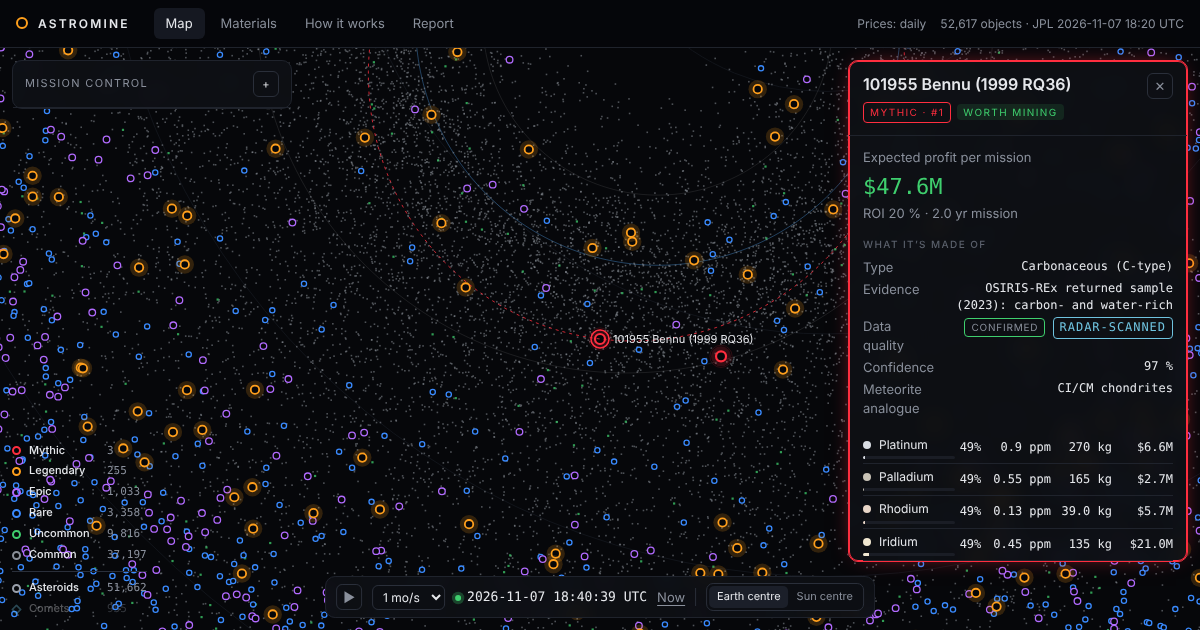
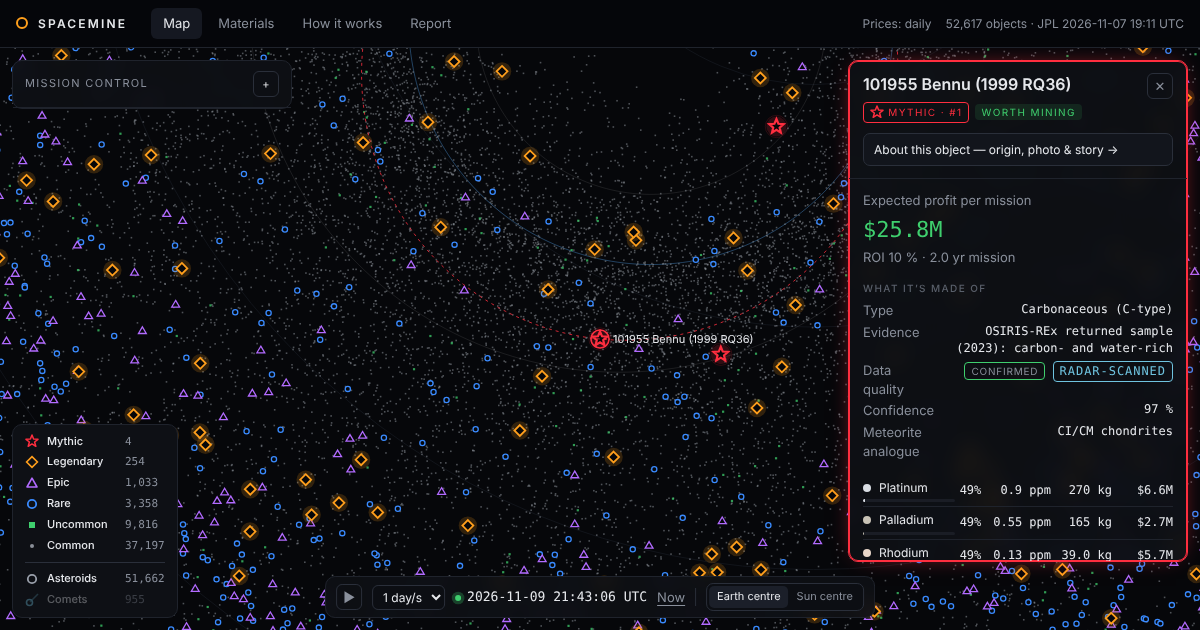
Rename project to Spacemine; remove dead code
- Astromine -> Spacemine everywhere (titles, branding, URLs, sitemap/robots, workflow data restore,
  bot user agents, local-storage keys); new preview image and README screenshot
- Removed unused CSS (old legend icons), an unused import, and needless exports

Claude-Session: https://claude.ai/code/session_014qHNGQWW1ZMbDVJNi2FEGT

diff --git a/js/main.js b/js/main.js
@@ -1,5 +1,5 @@
 import { MATERIALS, ORDER, CLASSES, TIERS, DEFAULTS, EVIDENCE, evaluate } from './model.js';
-import { buildObjects, rankAll, pricesFrom, refreshSpot, applyLambert, decodeLambert, decodeRows } from './pipeline.js';
+import { buildObjects, rankAll, pricesFrom, refreshSpot, applyLambert, decodeLambert } from './pipeline.js';
 import { body, fixedLaunch, depLEO, depMoon } from './lambert.js';
 import { openAbout, photoOf, credit } from './about.js';
 import { jdNow, orbitBasis, posAt, orbitPath, planets, moonAngle, planetElements } from './orbits.js';
@@ -9,8 +9,8 @@ const OZT = 0.0311034768;
 
 // ---------- state ----------
 const store = {
-  get(k, d) { try { const v = localStorage.getItem('astromine.' + k); return v ? JSON.parse(v) : d; } catch { return d; } },
-  set(k, v) { try { localStorage.setItem('astromine.' + k, JSON.stringify(v)); } catch {} },
+  get(k, d) { try { const v = localStorage.getItem('spacemine.' + k); return v ? JSON.parse(v) : d; } catch { return d; } },
+  set(k, v) { try { localStorage.setItem('spacemine.' + k, JSON.stringify(v)); } catch {} },
 };
 const S = { ...DEFAULTS, ...store.get('settings', {}) };
 delete S.costMoon; if (!(S.moonPct >= 0)) S.moonPct = DEFAULTS.moonPct;
@@ -138,7 +138,7 @@ function strokePath(pts, O) {
 }
 
 // Tier shapes (not only colours) so tiers stay distinguishable for colour-blind viewers.
-export const SHAPE = { common: 'dot', uncommon: 'square', rare: 'circle', epic: 'triangle', legendary: 'diamond', mythic: 'star' };
+const SHAPE = { common: 'dot', uncommon: 'square', rare: 'circle', epic: 'triangle', legendary: 'diamond', mythic: 'star' };
 function shapePath(kind, x, y, r) {
   ctx.beginPath();
   if (kind === 'triangle') { const h = r * 1.25; ctx.moveTo(x, y - h); ctx.lineTo(x + h * 0.95, y + h * 0.6); ctx.lineTo(x - h * 0.95, y + h * 0.6); ctx.closePath(); }

diff --git a/index.html b/index.html
@@ -3,14 +3,14 @@
 <head>
 <meta charset="utf-8">
 <meta name="viewport" content="width=device-width,initial-scale=1">
-<title>Astromine — Asteroid Prospecting Map</title>
+<title>Spacemine — Asteroid Prospecting Map</title>
 <meta name="description" content="Live map of 50,000+ real asteroids and comets ranked by mining profit — NASA/JPL orbits, NASA NHATS trajectories and live metal prices.">
-<link rel="canonical" href="https://mauki65.github.io/astromine/">
+<link rel="canonical" href="https://mauki65.github.io/spacemine/">
 <meta property="og:type" content="website">
-<meta property="og:title" content="Astromine — which asteroids are worth mining?">
+<meta property="og:title" content="Spacemine — which asteroids are worth mining?">
 <meta property="og:description" content="Live map of 50,000+ real asteroids ranked Common → Mythic by mining profit. NASA data, real trajectories, live metal prices.">
-<meta property="og:image" content="https://mauki65.github.io/astromine/assets/og.png">
-<meta property="og:url" content="https://mauki65.github.io/astromine/">
+<meta property="og:image" content="https://mauki65.github.io/spacemine/assets/og.png">
+<meta property="og:url" content="https://mauki65.github.io/spacemine/">
 <meta name="twitter:card" content="summary_large_image">
 <meta name="theme-color" content="#06070a">
 <link rel="preconnect" href="https://fonts.googleapis.com">
@@ -20,7 +20,7 @@
 </head>
 <body>
 <header class="top">
-  <div class="brand"><span class="mark"></span>ASTROMINE</div>
+  <div class="brand"><span class="mark"></span>SPACEMINE</div>
   <nav class="tabs">
     <button data-tab="map" class="on">Map</button>
     <button data-tab="materials">Materials</button>

diff --git a/css/style.css b/css/style.css
@@ -96,7 +96,6 @@ h3{font-size:10px;letter-spacing:.14em;text-transform:uppercase;color:var(--dim)
 .legend{position:absolute;left:12px;bottom:12px;display:flex;flex-direction:column;gap:3px;font-size:11px;background:#0e1015;border:1px solid var(--line);border-radius:10px;padding:8px 12px}
 .legend button{display:flex;gap:8px;align-items:center;background:none;border:0;color:var(--muted);cursor:pointer;padding:1px 0;text-align:left}
 .legend button.off{opacity:.35}
-.legend i{width:9px;height:9px;border-radius:50%;border:2px solid}
 .legend b{font-weight:500;color:var(--text);min-width:70px}
 
 .tip{position:absolute;pointer-events:none;background:#0d0f14;border:1px solid var(--line2);border-radius:6px;padding:6px 8px;font-size:12px;display:none;white-space:nowrap;z-index:5}
@@ -143,8 +142,6 @@ h3{font-size:10px;letter-spacing:.14em;text-transform:uppercase;color:var(--dim)
 .evd{display:inline-block;width:6px;height:6px;border-radius:50%;margin-right:6px;vertical-align:1px}
 .evkey{display:flex;flex-wrap:wrap;gap:10px;font-size:10.5px;color:var(--muted);width:100%;margin-top:4px}
 .legend .lsep{height:1px;background:var(--line2);margin:4px 0}
-.legend i.ic-ast{border-color:#9aa0ab}
-.legend i.ic-com{border-radius:1px;transform:rotate(45deg) scale(.85);border-color:#6fc3df}
 .tabs a.tabl{padding:6px 12px;border-radius:6px;color:var(--muted);text-decoration:none;font-size:13px}
 .tabs a.tabl:hover{color:var(--text)} .tabs a.tabl.on{color:var(--text);background:#151821}
 .disclaimer{position:absolute;right:12px;bottom:14px;font-size:10px;color:var(--dim);pointer-events:none;max-width:260px;text-align:right}

diff --git a/js/about.js b/js/about.js
@@ -107,7 +107,7 @@ const COMPOSITION = {
   V: 'Its surface is basalt — solidified lava — a sign it came from a body large enough to melt and form a crust.',
   K: 'A comet nucleus is a loose mix of ice, dust and organic compounds, often less dense than water. Near the Sun its ices turn to gas and form the coma and tail.',
 };
-export function originStory(o) {
+function originStory(o) {
   const p = [], cls = o.class || '', a = o.a, e = o.e, i = o.i, T = tisserand(a, e, i);
   const P = Math.pow(a, 1.5);
   if (o.comet) {
@@ -144,7 +144,7 @@ export function originStory(o) {
   return p;
 }
 
-export function facts(o) {
+function facts(o) {
   const f = [];
   f.push(['Size', `${o.dEst ? '~' : ''}${o.D >= 1 ? o.D.toPrecision(3) + ' km' : Math.round(o.D * 1000) + ' m'} — ${sizeLike(o.D)}`]);
   f.push(['Year length', `${Math.pow(o.a, 1.5).toFixed(2)} Earth years`]);

diff --git a/js/pipeline.js b/js/pipeline.js
@@ -15,7 +15,7 @@ export function decodeRows(d) {
   return { ...d, rows };
 }
 // lambert.json stores each trajectory as a compact array
-export const LAM_FIELDS = ['t0', 'tof', 'tofRet', 't1', 't2', 'vinf', 'arr', 'd3', 'vEntry', 'total', 'stay', 'at', 'ver'];
+const LAM_FIELDS = ['t0', 'tof', 'tofRet', 't1', 't2', 'vinf', 'arr', 'd3', 'vEntry', 'total', 'stay', 'at', 'ver'];
 export const LAM_VERSION = 2; // bump when trajectory physics change → everything is recomputed
 export function decodeLambert(l) {
   if (!l || !l.fields) return l;
@@ -52,7 +52,7 @@ function tkeys(name) {
   return k;
 }
 
-export function keysOf(o) {
+function keysOf(o) {
   const num = o.name.match(/^(\d+)\s/)?.[1], prov = o.name.match(/\(([^)]+)\)/)?.[1];
   return [num, prov, shortName(o.name)].filter(Boolean);
 }

diff --git a/js/report-core.js b/js/report-core.js
@@ -13,7 +13,7 @@ const ev = o => `<span class="evd" style="background:${EVIDENCE[o.evidence].colo
 const pct = (a, b) => b ? ((a / b - 1) * 100) : null;
 const chg = v => v == null ? '<span class="muted">–</span>' : `<span class="${v >= 0 ? 'pos' : 'neg'}">${v >= 0 ? '+' : ''}${v.toFixed(1)}%</span>`;
 
-export function titleFor(date = new Date()) {
+function titleFor(date = new Date()) {
   return `Asteroid mining launch windows — ${date.toLocaleString('en-GB', { month: 'long', year: 'numeric', timeZone: 'UTC' })}`;
 }
 

diff --git a/js/lambert.js b/js/lambert.js
@@ -6,7 +6,7 @@ const KMS = 1731.456837;           // AU/day → km/s
 const D2R = Math.PI / 180;
 
 // 3-D Keplerian state from elements
-export function kepler(el) {
+function kepler(el) {
   const { a, e, i, om, w } = el;
   const I = i * D2R, O = om * D2R, W = w * D2R;
   const cO = Math.cos(O), sO = Math.sin(O), cw = Math.cos(W), sw = Math.sin(W), ci = Math.cos(I), si = Math.sin(I);

diff --git a/scripts/taxonomy.py b/scripts/taxonomy.py
@@ -22,7 +22,7 @@ def fresh():
 
 def download(kind):
     path = f'/tmp/bft-{kind}.parquet'
-    req = urllib.request.Request(URL.format(kind), headers={'User-Agent': 'astromine-data-bot'})
+    req = urllib.request.Request(URL.format(kind), headers={'User-Agent': 'spacemine-data-bot'})
     with urllib.request.urlopen(req, timeout=600) as r, open(path, 'wb') as f:
         while chunk := r.read(1 << 20):
             f.write(chunk)

diff --git a/README.md b/README.md
@@ -1,8 +1,8 @@
-# Astromine — which asteroids are worth mining?
+# Spacemine — which asteroids are worth mining?
 
-**Live:** https://mauki65.github.io/astromine/ · **Monthly-style report (auto-updated):** https://mauki65.github.io/astromine/report/
+**Live:** https://mauki65.github.io/spacemine/ · **Monthly-style report (auto-updated):** https://mauki65.github.io/spacemine/report/
 
-![Astromine map](assets/screenshot.png)
+![Spacemine map](assets/screenshot.png)
 
 An interactive map of 50,000+ real asteroids and comets from Venus to Saturn, ranked **Common → Uncommon → Rare → Epic → Legendary → Mythic** by expected profit per mining mission. Plug in your own launch costs, spacecraft and risk, launch from Earth or the Moon, and watch the whole solar system re-rank.
 
